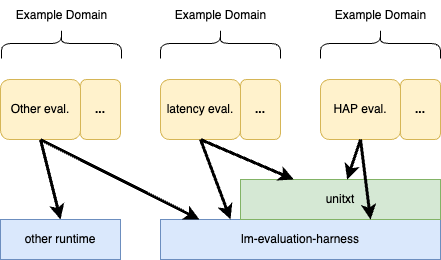
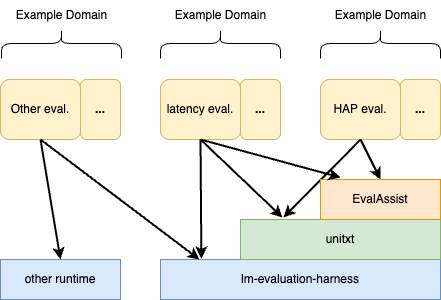
Added EvalAssist. Refined some wording in various places.

diff --git a/docs/_sass/custom/custom.scss b/docs/_sass/custom/custom.scss
@@ -35,6 +35,12 @@ blockquote {
   font: 0.8rem "Fira Sans" sans-serif; 
 }
 
+.diagram-center {
+    display: block;
+    margin-left: auto;
+    margin-right: auto;
+}
+
 /* 
 Based on .site-header, but more flexible. 
 */
